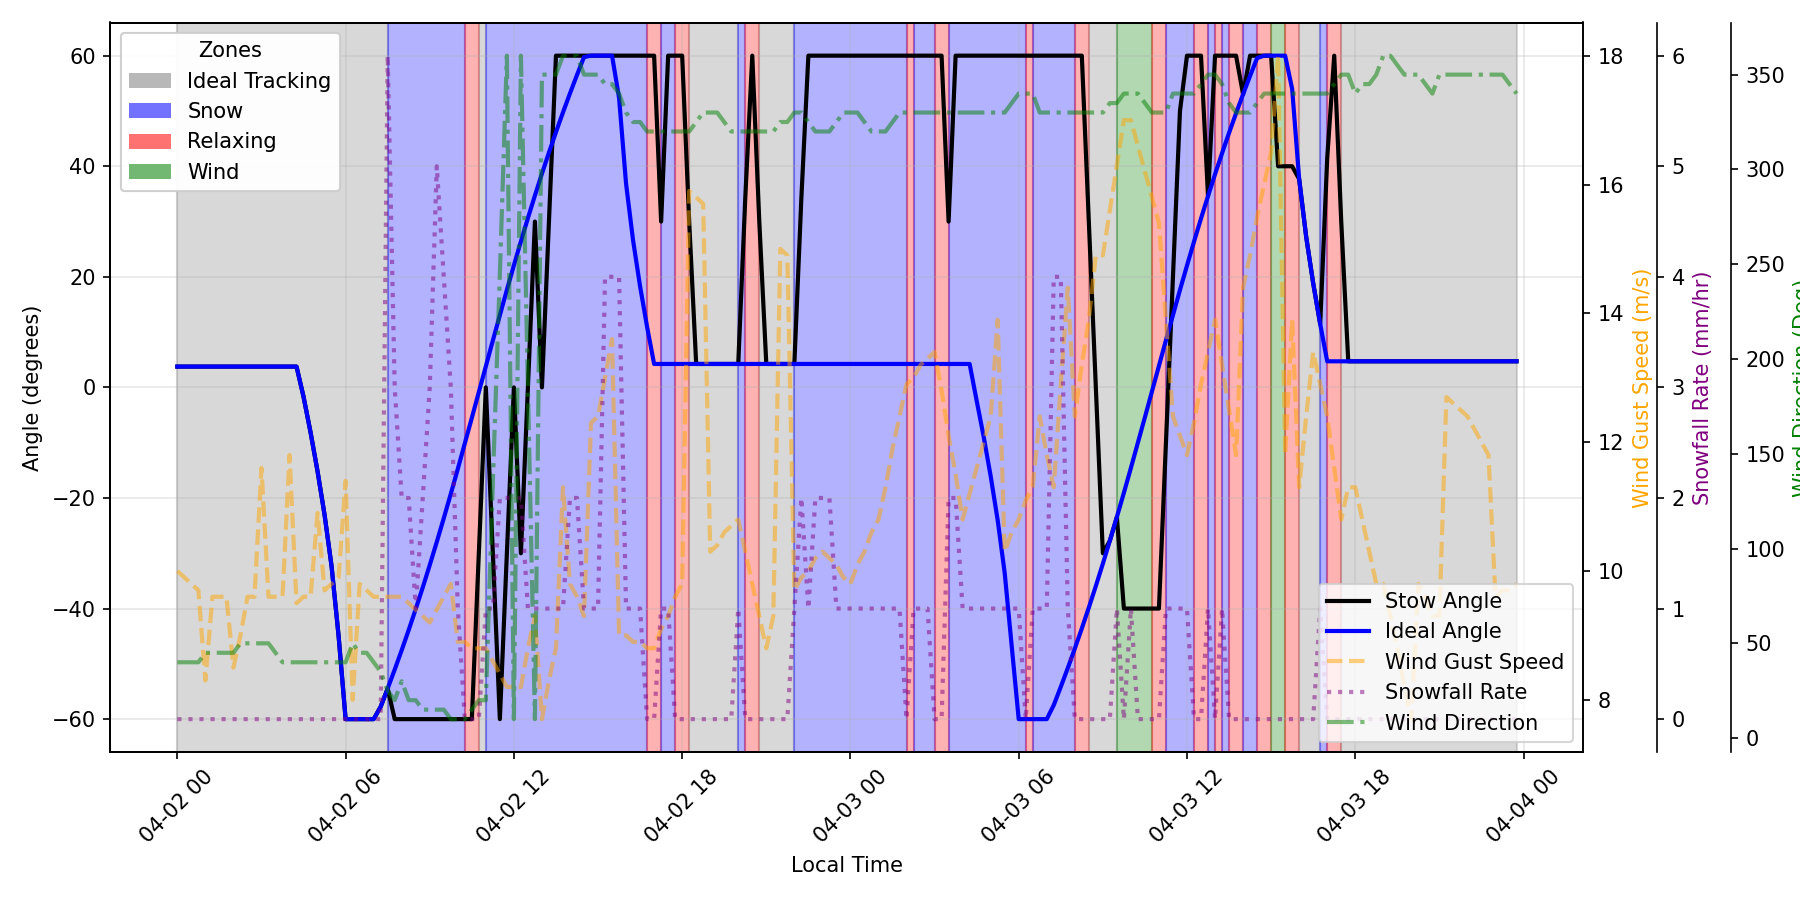
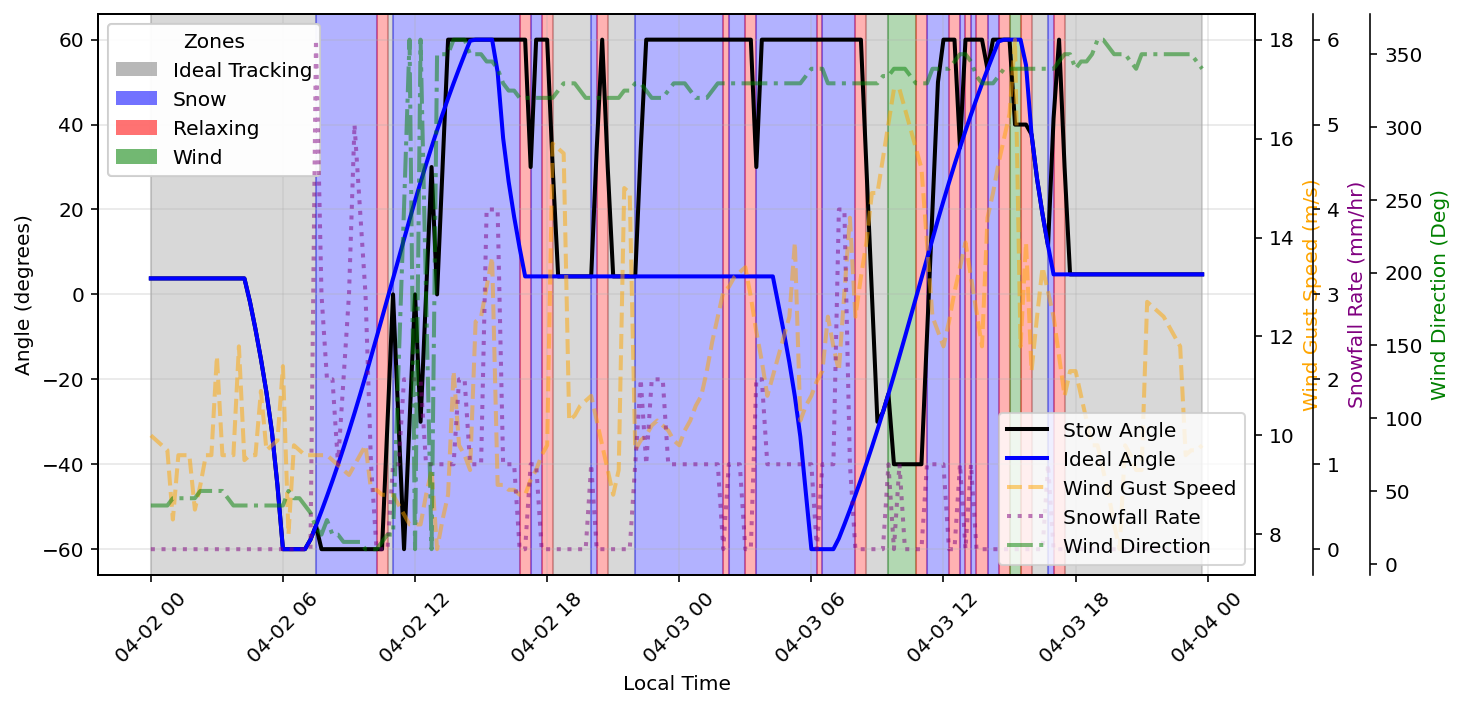
figure edits

diff --git a/plotting.py b/plotting.py
@@ -56,7 +56,7 @@ colors = plt.cm.Set3(np.linspace(0, 1, len(unique_triggers)))
 colors = ['gray', 'blue', 'red', 'green', 'cyan', 'magenta'][:len(unique_triggers)]  # Use a predefined color list
 trigger_colors = {trigger: colors[i] for i, trigger in enumerate(unique_triggers)}
 
-fig, ax = plt.subplots(figsize=(12, 6))
+fig, ax = plt.subplots(figsize=(10, 5))
 # plt.figure(figsize=(12, 6))
 
 # Add background colored regions for each zone/trigger
@@ -113,4 +113,4 @@ fig.tight_layout()
 ax2.set_ylabel('Wind Gust Speed (m/s)', color='orange')
 ax3.set_ylabel('Snowfall Rate (mm/hr)', color='purple')
 ax4.set_ylabel('Wind Direction (Deg)', color='green')
-plt.savefig('stow_angle_over_time.png', dpi=150)
+plt.savefig('stow_angle_over_time.png', dpi=145, bbox_inches='tight')
